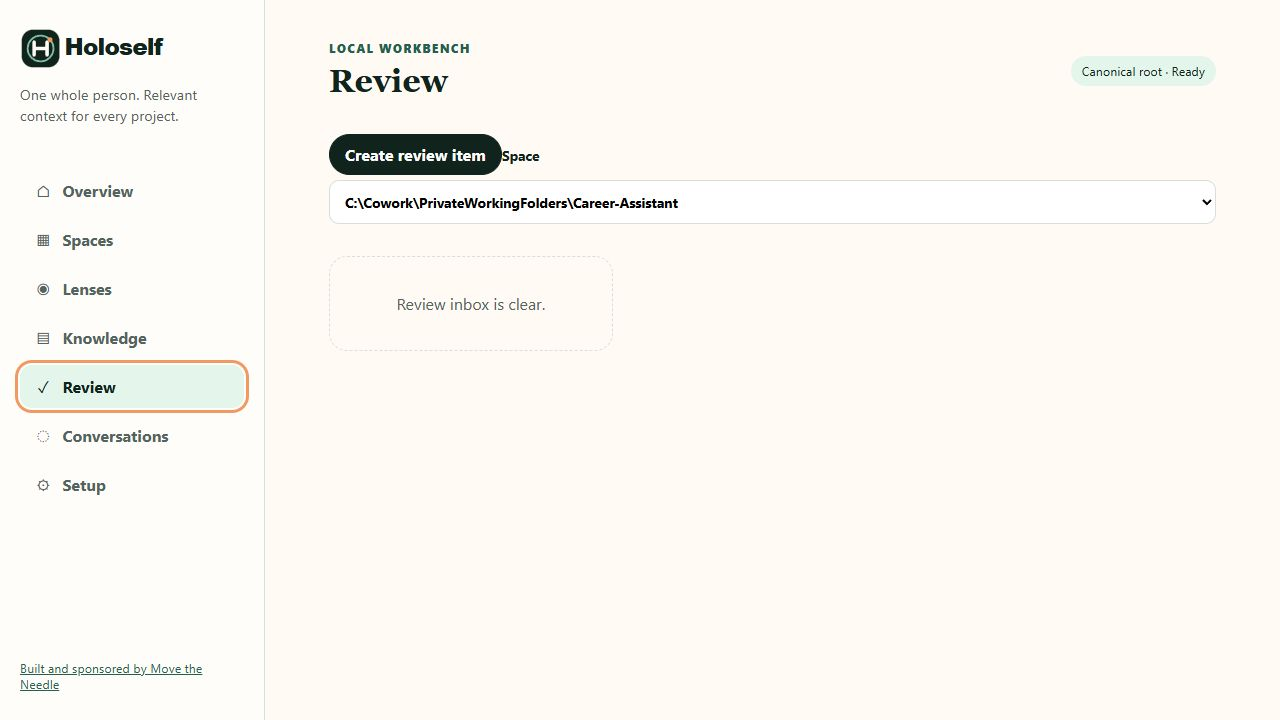
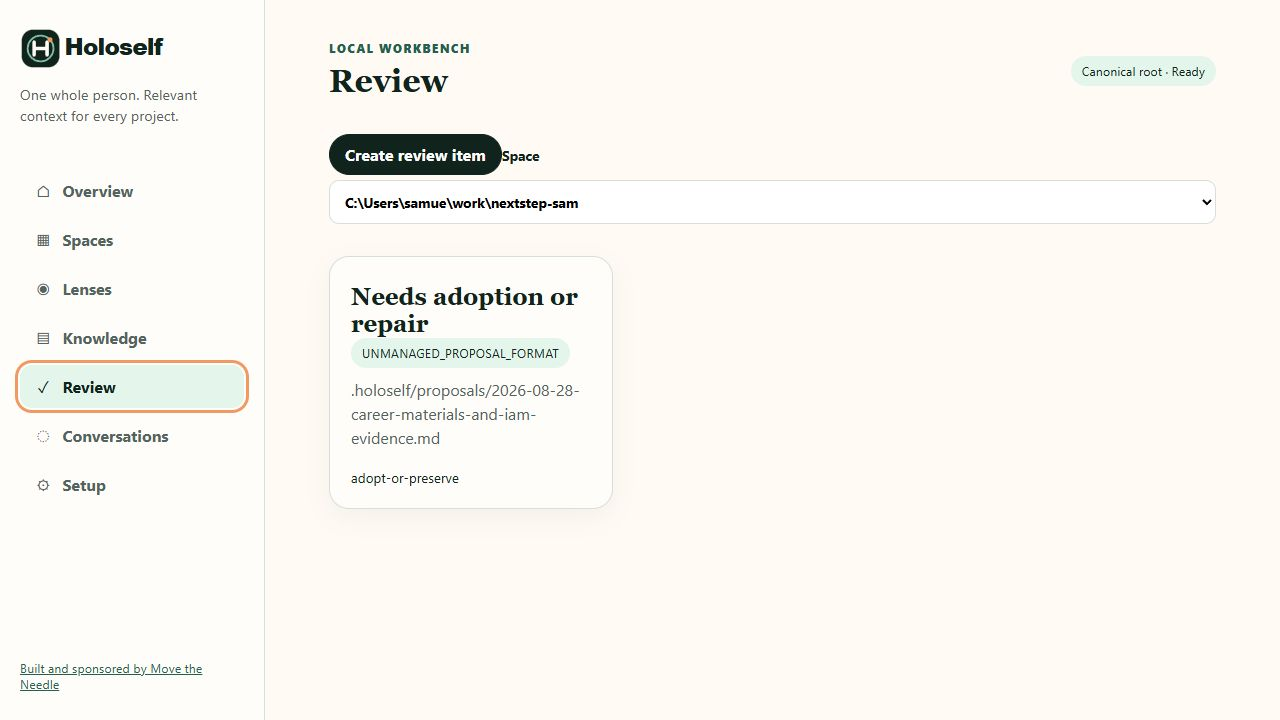
docs: refresh Workbench screenshots

Changed region(s): [[0.2812, 0.3972, 0.4688, 0.6111], [0.2812, 0.275, 0.5312, 0.3056], [0.2812, 0.6417, 0.3438, 0.6722]]

diff --git a/docs/workbench/spaces.md b/docs/workbench/spaces.md
@@ -2,9 +2,9 @@
 
 A Space is an independent project folder linked to canonical self. The project keeps its instructions, indexes, proposals, reports, and conversations; the self root keeps approved reusable knowledge.
 
-![Spaces showing real degraded catalog entries](../assets/workbench/spaces.png)
+![Spaces showing three real activated projects](../assets/workbench/spaces.png)
 
-The screenshot deliberately shows real degraded entries. Their catalog records still exist, but their project-side `link.yaml` files are missing. Workbench keeps them visible so the break can be understood and repaired; it does not silently treat them as healthy.
+The screenshot shows three real projects linked from their current folders under `C:\Users\samue\work`. Each link is activated and passes its Space health checks. A missing index is reported separately because indexes are rebuildable project artifacts, not a broken link.
 
 ## Link or discover a project
 
@@ -41,8 +41,6 @@ Choose the least-broad lens that fits the project's purpose. Linking does not co
 2. Use **Health details** or run `holoself link doctor --project <path>`.
 3. Prefer the specific corrective action offered on the card.
 4. Re-open the card and use **Preview context** before resuming work.
-
-![Health details preserving the exact real link finding](../assets/workbench/space-health.png)
 
 If the project folder was intentionally retired, use **Remove link** only after confirming the exact Space. If it moved, relink the intended folder; do not create a second canonical self root to make the warning disappear.
 
